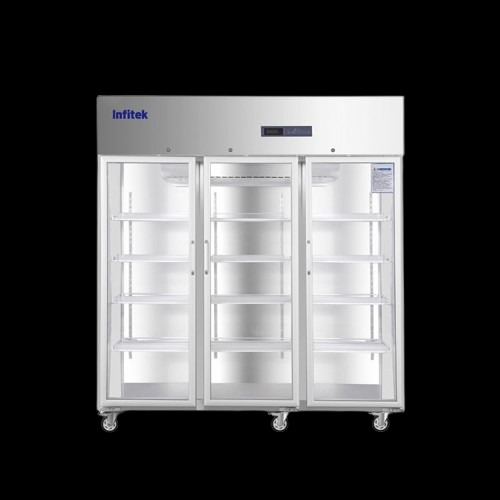
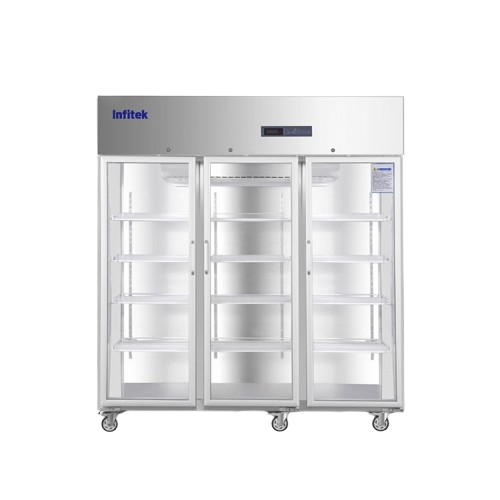
fix(catalog): reemplazar imagen de PR5-1500 por version sin fondo

diff --git a/src/lib/mock-products.ts b/src/lib/mock-products.ts
@@ -2314,7 +2314,7 @@ export const mockProducts: Product[] = [
     description: "Refrigerador médico de tres puertas y 1500 L para almacenar vacunas, medicamentos, reactivos y muestras entre 2 y 8 °C mediante refrigeración por aire forzado.",
     category: "Equipamiento menor",
     filters: ["Marcas", "Área farmacéutica", "Equipamiento menor"],
-    imageUrl: "/productos/infitek/pr5-series/imagen-1.jpg",
+    imageUrl: "/productos/infitek/pr5-series/imagen-1.png",
     features: [
       "Capacidad masiva de 1500 L",
       "Enfriamiento de aire forzado",

diff --git a/src/app/productos/[slug]/page.tsx b/src/app/productos/[slug]/page.tsx
@@ -246,7 +246,7 @@ export default async function ProductDetailPage({
         ]
     : product.slug === "infitek-pr5-series"
       ? [
-        { src: "/productos/infitek/pr5-series/imagen-1.jpg", alt: "Refrigerador de farmacia de tres puertas Infitek PR5-1500" }
+        { src: "/productos/infitek/pr5-series/imagen-1.png", alt: "Refrigerador de farmacia de tres puertas Infitek PR5-1500" }
         ]
     : product.slug === "infitek-titr-50vc"
       ? [
